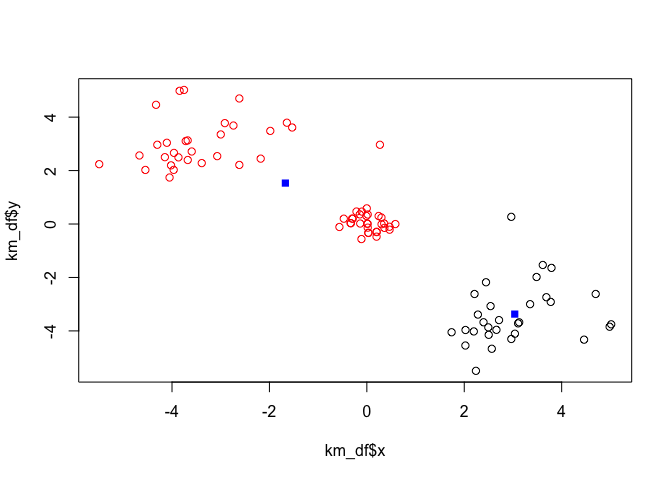
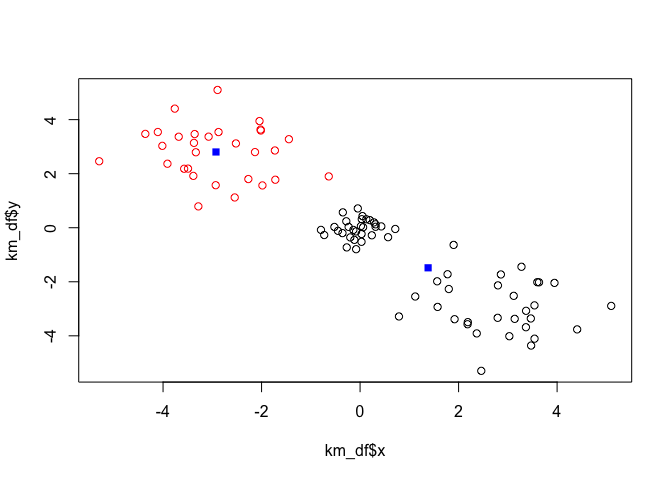
Changed title

diff --git a/Class_9-Unsup_learning/Lecture_9-Unsup_learning.md b/Class_9-Unsup_learning/Lecture_9-Unsup_learning.md
@@ -1,4 +1,4 @@
-Lecture\_9-Unsup\_Learn
+Lecture\_9-Unsupervised\_Learning
 ================
 Michael Overton
 
@@ -37,15 +37,15 @@ str(km_2)
 
     ## List of 9
     ##  $ cluster     : int [1:90] 2 2 2 2 2 2 2 2 2 2 ...
-    ##  $ centers     : num [1:2, 1:2] 3.04 -1.67 -3.37 1.53
+    ##  $ centers     : num [1:2, 1:2] 1.38 -2.93 -1.48 2.8
     ##   ..- attr(*, "dimnames")=List of 2
     ##   .. ..$ : chr [1:2] "1" "2"
     ##   .. ..$ : chr [1:2] "x" "y"
-    ##  $ totss       : num 1360
-    ##  $ withinss    : num [1:2] 61.1 375
-    ##  $ tot.withinss: num 436
-    ##  $ betweenss   : num 924
-    ##  $ size        : int [1:2] 30 60
+    ##  $ totss       : num 1106
+    ##  $ withinss    : num [1:2] 310.6 57.4
+    ##  $ tot.withinss: num 368
+    ##  $ betweenss   : num 738
+    ##  $ size        : int [1:2] 60 30
     ##  $ iter        : int 1
     ##  $ ifault      : int 0
     ##  - attr(*, "class")= chr "kmeans"
@@ -62,13 +62,13 @@ Q. What ‘component’ of your result object details
 km_2$size
 ```
 
-    ## [1] 30 60
+    ## [1] 60 30
 
 ``` r
 km_3$size
 ```
 
-    ## [1] 29 32 29
+    ## [1] 32 29 29
 
 -   cluster assignment/membership?
 
@@ -78,16 +78,16 @@ km_3$size
 km_2$cluster
 ```
 
-    ##  [1] 2 2 2 2 2 2 2 2 2 2 2 2 2 2 2 2 2 2 2 2 2 2 2 2 2 2 2 2 2 2 2 2 2 2 2 2 2 2
-    ## [39] 2 2 2 2 2 2 2 2 2 2 2 2 2 2 2 2 2 2 2 2 2 2 1 1 1 1 1 1 1 1 1 1 1 1 1 1 1 1
+    ##  [1] 2 2 2 2 2 2 2 2 2 2 2 2 2 2 2 2 2 2 2 2 2 2 2 2 2 2 2 2 2 2 1 1 1 1 1 1 1 1
+    ## [39] 1 1 1 1 1 1 1 1 1 1 1 1 1 1 1 1 1 1 1 1 1 1 1 1 1 1 1 1 1 1 1 1 1 1 1 1 1 1
     ## [77] 1 1 1 1 1 1 1 1 1 1 1 1 1 1
 
 ``` r
 km_3$cluster
 ```
 
-    ##  [1] 1 1 1 1 1 1 1 1 1 1 1 1 1 1 1 1 1 1 1 1 1 1 1 1 1 1 1 1 1 2 2 2 2 2 2 2 2 2
-    ## [39] 2 2 2 2 2 2 2 2 2 2 2 2 2 2 2 2 2 2 2 2 2 2 2 3 3 3 3 3 3 3 3 3 3 3 3 3 3 3
+    ##  [1] 2 2 2 2 2 2 2 2 2 2 2 2 2 2 2 2 2 2 2 2 1 2 2 2 2 2 2 2 2 2 1 1 1 1 1 1 1 1
+    ## [39] 1 1 1 1 1 1 1 1 1 1 1 1 1 1 1 1 1 1 1 1 1 1 3 3 3 3 3 3 3 3 3 1 3 3 3 3 3 3
     ## [77] 3 3 3 3 3 3 3 3 3 3 3 3 3 3
 
 -   cluster center?
@@ -99,17 +99,17 @@ km_2$centers
 ```
 
     ##           x         y
-    ## 1  3.036759 -3.371391
-    ## 2 -1.672390  1.531685
+    ## 1  1.381146 -1.483233
+    ## 2 -2.925384  2.803373
 
 ``` r
 km_3$centers
 ```
 
-    ##            x          y
-    ## 1 -3.4969091  3.0392245
-    ## 2  0.1260067  0.1260067
-    ## 3  3.0392245 -3.4969091
+    ##               x             y
+    ## 1  0.0009660366  0.0009660366
+    ## 2 -3.0043329599  2.8345511554
+    ## 3  2.8345511554 -3.0043329599
 
 Plot x colored by the kmeans cluster assignment and add cluster centers as blue points
 
@@ -149,13 +149,13 @@ table( cutree(h_x, k=3) )
 
     ## 
     ##  1  2  3 
-    ## 29 32 29
+    ## 30 30 30
 
 ``` r
 km_3$size
 ```
 
-    ## [1] 29 32 29
+    ## [1] 32 29 29
 
 Generate example data for clustering and plot without clustering. Then, generate plot with points colored according to source
 
@@ -192,21 +192,21 @@ plot(h_x2)
 cutree(h_x2, k=2)
 ```
 
-    ##   [1] 1 1 2 2 1 2 1 1 1 2 1 1 1 2 2 1 2 1 1 1 1 2 2 1 1 2 1 1 1 1 2 1 1 1 2 2 1
-    ##  [38] 2 1 1 2 2 1 1 2 1 1 1 1 1 2 2 2 2 2 2 2 2 2 2 2 2 2 2 2 2 2 2 2 2 2 2 2 2
-    ##  [75] 2 2 2 2 2 2 2 2 2 2 2 2 2 2 2 2 2 2 2 2 2 2 2 2 2 2 2 2 2 2 2 2 2 2 2 2 2
-    ## [112] 2 2 2 2 2 2 2 2 2 2 2 2 2 2 2 2 2 2 2 2 2 2 2 2 2 2 2 2 2 2 2 2 2 2 2 2 2
+    ##   [1] 1 1 1 1 1 1 1 1 1 1 1 1 1 1 1 1 1 1 1 1 1 1 1 1 1 1 1 1 1 1 1 1 1 1 1 1 1
+    ##  [38] 1 1 1 1 1 1 1 1 1 1 1 1 1 2 2 2 2 2 2 2 2 2 2 2 2 2 2 2 2 2 2 2 2 2 2 2 2
+    ##  [75] 2 2 2 2 2 2 2 2 2 2 2 2 2 2 2 2 2 2 2 2 2 2 2 2 2 2 2 2 2 2 2 2 1 2 1 1 1
+    ## [112] 2 1 2 2 2 2 2 2 2 1 2 1 1 2 2 2 2 2 2 1 2 2 1 2 1 2 2 2 2 2 2 2 2 1 2 2 2
     ## [149] 2 2
 
 ``` r
 cutree(h_x2, k=3)
 ```
 
-    ##   [1] 1 1 2 2 1 2 1 1 1 2 1 1 1 2 2 1 2 1 1 1 1 2 2 1 1 2 1 1 1 1 2 1 1 1 2 2 1
-    ##  [38] 2 1 1 2 2 1 1 2 1 1 1 1 1 3 3 3 3 3 3 3 3 3 3 3 3 3 3 3 3 3 3 3 3 3 3 3 3
-    ##  [75] 3 3 3 3 3 3 3 3 3 3 3 2 2 2 3 3 3 3 3 3 3 3 3 3 3 3 2 2 2 2 2 2 2 2 2 2 2
-    ## [112] 2 2 2 3 2 2 2 2 2 2 2 2 2 2 2 2 2 2 2 2 2 2 2 2 2 2 2 2 2 2 2 2 2 2 2 2 2
-    ## [149] 2 2
+    ##   [1] 1 1 1 1 1 1 1 1 1 1 1 1 1 1 1 1 1 1 1 1 1 1 1 1 1 1 1 1 1 1 1 1 1 1 1 1 1
+    ##  [38] 1 1 1 1 1 1 1 1 1 1 1 1 1 2 2 2 2 3 2 2 3 2 2 2 2 2 3 2 2 3 2 2 2 3 3 2 2
+    ##  [75] 2 3 2 2 2 2 2 2 2 2 2 2 2 2 2 2 3 2 2 3 2 2 2 2 2 3 3 3 3 3 3 2 1 3 1 1 1
+    ## [112] 3 1 3 3 3 3 3 3 3 1 3 1 1 3 3 3 3 3 3 1 3 3 1 3 1 3 3 3 3 3 3 3 3 1 3 3 3
+    ## [149] 3 3
 
 Q. How does this compare to your known 'col' groups?
 
@@ -232,7 +232,7 @@ table(cutree(h_x2, k=3))
 
     ## 
     ##  1  2  3 
-    ## 33 69 48
+    ## 62 41 47
 
 ``` r
 x2_trueK <- cbind(x2, col)
